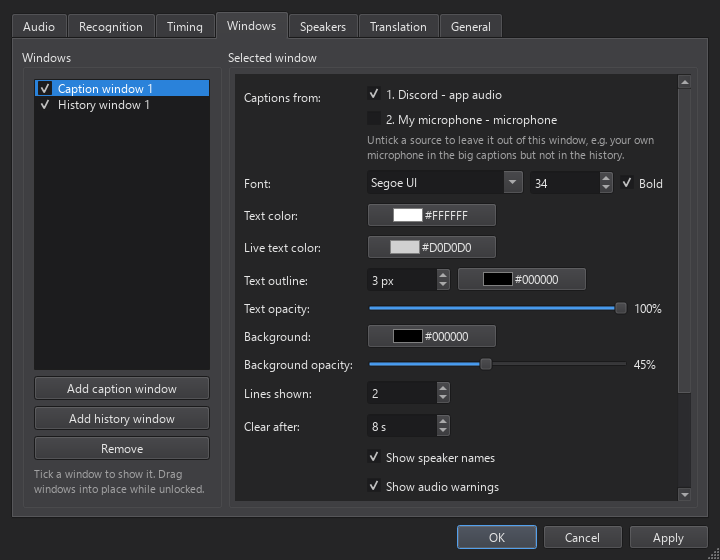
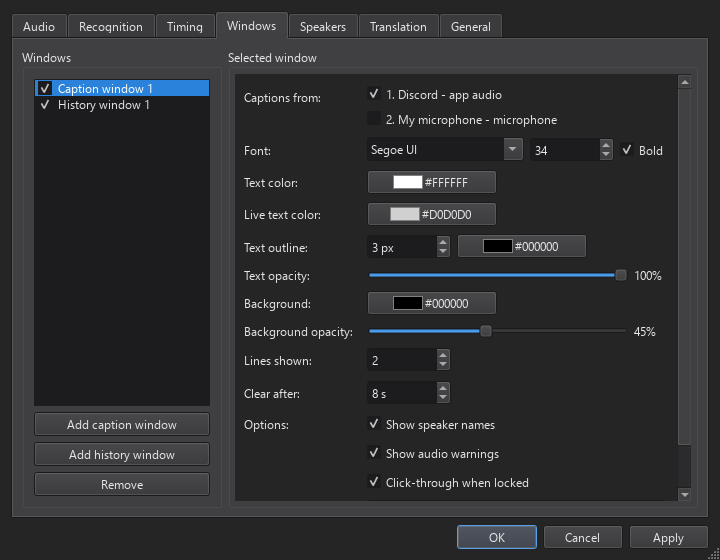
Windows tab: source number beside the name, Options group, tooltips
- History source numbers are a column in front of the label instead of
  replacing the source name.
- The tick boxes are grouped under "Options:" (first row: Show speaker
  names, shown for both kinds of window).
- Explanations moved into tooltips (history length, captions from, source
  number, CPU line, audio warnings, window list); the consent warning
  stays inline and "never saved to disk" is dropped here.

Part of 0.1.1.

diff --git a/src/voicerhino/ui/settings.py b/src/voicerhino/ui/settings.py
@@ -1192,6 +1192,7 @@ class WindowsTab(_Tab):
         self.view_list.setSelectionMode(QAbstractItemView.SelectionMode.SingleSelection)
         self.view_list.currentRowChanged.connect(self._on_row_changed)
         self.view_list.itemChanged.connect(self._on_item_changed)
+        self.view_list.setToolTip("Tick a window to show it. Drag windows into place while unlocked.")
         self.add_caption_button = QPushButton("Add caption window")
         self.add_caption_button.setToolTip("Another big caption overlay, e.g. for a second monitor")
         self.add_caption_button.clicked.connect(lambda: self._add(ViewConfig()))
@@ -1253,18 +1254,24 @@ class WindowsTab(_Tab):
         self.history_seconds_spin.setRange(10, 900)
         self.history_seconds_spin.setSingleStep(10)
         self.history_seconds_spin.setSuffix(" s")
-        self.history_seconds_spin.setToolTip("How far back the history window goes")
+        self.history_seconds_spin.setToolTip("How far back the history window goes; older lines disappear")
         self.history_seconds_spin.valueChanged.connect(partial(self._set, "history_seconds"))
         self.timestamps_check = QCheckBox("Show timestamps")
         self.timestamps_check.toggled.connect(partial(self._set, "show_timestamps"))
         self.source_number_check = QCheckBox("Show source number")
+        self.source_number_check.setToolTip("Puts 1, 2, ... before each line: the source's place in "
+                                            "Settings › Audio, in a column of its own")
         self.source_number_check.toggled.connect(partial(self._set, "show_source_number"))
         self.resources_check = QCheckBox("Show VoiceRhino's CPU and memory use")
+        self.resources_check.setToolTip("One line at the top, updated every 2 seconds, to see if it gets in the "
+                                        "way of a game (Settings › General has averages)")
         self.resources_check.toggled.connect(partial(self._set, "show_resources"))
         self.speakers_check = QCheckBox("Show speaker names")
         self.speakers_check.setToolTip("Prefix lines with who is talking (see the Speakers tab)")
         self.speakers_check.toggled.connect(partial(self._set, "show_speakers"))
         self.warnings_check = QCheckBox("Show audio warnings")
+        self.warnings_check.setToolTip("E.g. \"Discord is very quiet: turn its volume up\". A caption window "
+                                       "shows it only along with captions; the history window keeps it up.")
         self.warnings_check.toggled.connect(partial(self._set, "show_warnings"))
         self.click_through_check = QCheckBox("Click-through when locked")
         self.click_through_check.setToolTip("When the windows are locked, clicks go through this window "
@@ -1276,11 +1283,12 @@ class WindowsTab(_Tab):
         self._sources_layout.setContentsMargins(0, 0, 0, 0)
         self._sources_layout.setSpacing(4)
         self.source_checks: list[QCheckBox] = []
+        self.sources_box.setToolTip("Untick a source to leave it out of this window, e.g. your own "
+                                    "microphone in the big captions but not in the history")
 
         form = _form()
         self._form = form
-        self._sources_field = _field(self.sources_box, "Untick a source to leave it out of this window, e.g. "
-                                     "your own microphone in the big captions but not in the history.")
+        self._sources_field = _field(self.sources_box)
         form.addRow("Captions from:", self._sources_field)
         form.addRow("Font:", _field(_row(self.font_combo, 1, _spin(self.font_size_spin), self.bold_check)))
         form.addRow("Text color:", _field(_row(self.text_color_button, stretch=True)))
@@ -1298,24 +1306,17 @@ class WindowsTab(_Tab):
         form.addRow("Clear after:", self._caption_fields[2])
         self._history_fields = [
             _field(_row(_spin(self.history_seconds_spin), stretch=True),
-                   "How far back the history window goes; older lines disappear. It's only shown "
-                   "on screen and never saved to disk.",
-                   "Ask everyone you're talking with before you use the history window."),
+                   warning="Ask everyone you're talking with before you use the history window."),
             _field(self.timestamps_check),
-            _field(self.source_number_check,
-                   "1, 2, ... in the order of Settings › Audio, in place of the source's name, so lines "
-                   "stay lined up."),
-            _field(self.resources_check,
-                   "One line at the top, updated every 2 seconds, to see if it gets in the way of a game "
-                   "(Settings › General has averages)."),
+            _field(self.source_number_check),
+            _field(self.resources_check),
         ]
         form.addRow("History length:", self._history_fields[0])
+        # The tick boxes as one group under "Options:" (its first row shows for both kinds of window).
+        form.addRow("Options:", self.speakers_check)
         for field in self._history_fields[1:]:
             form.addRow(QLabel(), field)
-        form.addRow(QLabel(), self.speakers_check)
-        form.addRow(QLabel(), _field(self.warnings_check,
-                                     "E.g. '⚠ Discord is very quiet: turn its volume up'. A caption window shows "
-                                     "it only along with captions; the history window keeps it up."))
+        form.addRow(QLabel(), self.warnings_check)
         form.addRow(QLabel(), self.click_through_check)
         form.addRow("Move to screen:", _field(self.screen_combo, self.placement_label))
 
@@ -1337,7 +1338,6 @@ class WindowsTab(_Tab):
         left.addWidget(self.add_caption_button)
         left.addWidget(self.add_history_button)
         left.addWidget(self.remove_button)
-        left.addWidget(Hint("Tick a window to show it. Drag windows into place while unlocked."))
         left_box.setFixedWidth(max(200, self.add_history_button.sizeHint().width() + 40))
 
         layout = QHBoxLayout(self)

diff --git a/tests/test_overlay.py b/tests/test_overlay.py
@@ -108,17 +108,16 @@ def test_text_opacity_fades_captions_and_outline_together():
     assert 115 <= alphas[0.5] <= 140  # one fade over text and outline, not two stacked ones
 
 
-def test_history_shows_source_numbers_in_place_of_names():
+def test_history_shows_source_numbers_next_to_names():
     view = ViewConfig.default_history()
     window = HistoryWindow(view, store_with_two_sources())
     window.multi_source = True
     window.source_numbers = {"out": 1, "mic": 2}
-    assert "Default output:" in window._html() and "Microphone:" in window._html()
+    assert '<b style="color:#8a8d93">' not in window._html()
     view.show_source_number = True
     html = window._html()
-    assert "Default output:" not in html and "Microphone:" not in html
-    assert '<b style="color:#8a8d93">1</b> <span style="color:#FFFFFF">push top lane' in html
-    assert '<b style="color:#8a8d93">2</b> <span style="color:#FFFFFF">my own words' in html
+    assert '<b style="color:#8a8d93">1</b> <b style="color:#9aa5ff">Default output:</b> ' in html
+    assert '<b style="color:#8a8d93">2</b> <b style="color:#9aa5ff">Microphone:</b> ' in html
 
 
 def test_history_resource_line_sits_above_the_warning(monkeypatch):

diff --git a/tests/test_settings_dialog.py b/tests/test_settings_dialog.py
@@ -801,12 +801,11 @@ def test_wrapped_hints_get_just_the_height_they_need():
     dialog, _ = make_dialog(AppConfig())
     dialog.resize(1400, 900)
     dialog.show()
-    win = dialog.windows_tab
-    dialog.tabs.setCurrentWidget(win)
-    win.view_list.setCurrentRow(1)  # history: its checkboxes with hints
+    dialog.tabs.setCurrentWidget(dialog.translation_tab)
     APP.processEvents()
-    for field in win._history_fields[2:]:
-        assert field.height() == field.heightForWidth(field.width())
+    field = dialog.translation_tab.foreign_check.parentWidget()  # tick box + hint, in a row without a label
+    assert field.heightForWidth(field.width()) > 0
+    assert field.height() == field.heightForWidth(field.width())
     dialog.close()
 
 

diff --git a/src/voicerhino/config.py b/src/voicerhino/config.py
@@ -84,7 +84,7 @@ class ViewConfig:
     clear_after: float = 8.0  # caption: hide text after this many quiet seconds, 0 = never
     history_seconds: int = 60  # history: how far back to show
     show_timestamps: bool = True  # history
-    show_source_number: bool = False  # history: 1, 2, ... (order of Settings › Audio) instead of the name
+    show_source_number: bool = False  # history: 1, 2, ... (order of Settings › Audio) before each line
     show_resources: bool = False  # history: a top line with VoiceRhino's own CPU, RAM and GPU use
     show_speakers: bool = True
     show_warnings: bool = True  # e.g. "Discord is very quiet"; caption windows show it only with captions

diff --git a/src/voicerhino/ui/overlay.py b/src/voicerhino/ui/overlay.py
@@ -264,7 +264,7 @@ class OverlayWindow(QWidget):
     def _label(self, u: Utterance) -> tuple[str | None, str | None]:
         if self.view.show_speakers and u.speaker:
             return u.speaker, speaker_color(u.speaker_key)
-        if self.multi_source and not self.view.show_source_number:  # the number says it already
+        if self.multi_source:
             return u.source, None
         return None, None
 

diff --git a/CHANGELOG.md b/CHANGELOG.md
@@ -27,9 +27,9 @@ already listening.
   opacity_, so the game can show through the captions. The text, its outline and the speaker
   names fade together, down to 10%.
 - **Source numbers in the history window**: with several sources (e.g. Discord and a browser),
-  Settings › Windows › _Show source number_ puts 1, 2, … in front of each line instead of the
-  source's name, so lines stay lined up. Sources are numbered in the order of Settings › Audio,
-  which now has _Move up_ and _Move down_.
+  Settings › Windows › _Show source number_ puts 1, 2, … in a column in front of each line, next
+  to the source's name. Sources are numbered in the order of Settings › Audio, which now has
+  _Move up_ and _Move down_.
 - **See what VoiceRhino costs**: Settings › General › _Resources_ shows its own CPU (in cores and
   % of your CPU), RAM and GPU use right now, with 1- and 5-minute CPU averages. A history window
   can show the same as one line at the top (Settings › Windows › _Show VoiceRhino's CPU and
@@ -40,8 +40,8 @@ already listening.
 - **Outline color** for caption windows, next to the outline width (black by default).
 - Settings › Windows reads better: _Text opacity_ sits with the text settings, before the
   background ones; _Move to screen_ moved to the bottom; the outline, which history windows
-  don't draw, only shows for caption windows; and hints under checkboxes no longer have a gap
-  around them.
+  don't draw, only shows for caption windows; the tick boxes are grouped under _Options_; and
+  the explanations moved into tooltips (hover a setting), so the tab takes far less room.
 - README: screenshots of the caption windows and the Settings tabs.
 
 ## 0.1.0 (2026-10-29)
